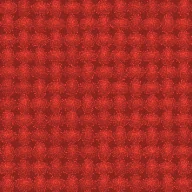
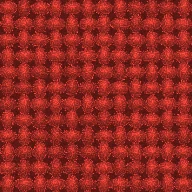
fix(web): visible madder weave; e2e builds outside the dev server folder

diff --git a/apps/web/next.config.ts b/apps/web/next.config.ts
@@ -1,6 +1,9 @@
 import type { NextConfig } from "next";
 
 const nextConfig: NextConfig = {
+  // e2e builds into its own folder so it never overwrites the files a running
+  // `next dev` is serving (that left the local server on stale CSS).
+  distDir: process.env.NEXT_DIST_DIR ?? ".next",
   transpilePackages: [
     "@amigo/core",
     "@amigo/adapter-memory",

diff --git a/apps/web/playwright.config.ts b/apps/web/playwright.config.ts
@@ -27,6 +27,7 @@ export default defineConfig({
     timeout: 300_000,
     env: {
       AMIGO_LOCAL_MODE: "true",
+      NEXT_DIST_DIR: ".next-e2e",
       NEXT_PUBLIC_SUPABASE_URL: "",
       NEXT_PUBLIC_SUPABASE_PUBLISHABLE_KEY: "",
       DATABASE_URL: "",

diff --git a/odd/tasks/critique-fixes.md b/odd/tasks/critique-fixes.md
@@ -24,3 +24,4 @@ Tests: `pnpm check`, `pnpm --filter @amigo/web e2e`.
 - L3 (2026-11-24): T2 done. One canonical time: the free window (decision panel, option rows, cloth band, invite preview); the suggested start lives only in the propose form, and the "Libres de … a …" line is gone. Strip: when everyone can, the caption shows the window length ("4 h", "2,5 h"; label "pueden todos, 4 h libres") instead of N/N. Tags every option shares are dropped ("Más pronto" stays: it breaks ties). RED observed: 3 of 4 new unit tests fail on the old view model. `pnpm check` green, e2e 19/19, capture of a two-member group reviewed.
 - L4 (2026-11-24): owner feedback verbatim: "Ok, la tipografia no funciona bien, estan como todas las letras una sobre otras, además son negras? por otro lado los botones creo que tamien deberian de tener textura, se ven fuera de lugar, deberian ser como el boton listo de gestionar horarios, pero claro con el color que tienen al crear un grupo y estar sin el contenido que deberia de tener normalmente el contenido se ve mal, no sabria explicartelo revisalo, un grupo recien creado me meti a un demo para revisar, siento que el bloque de los hilos y quien esta libre deberia ser mas grande verticalmente, apretado todo es un poco dificil de leer"
 - L5 (2026-11-24): fixes. Rope font rebuilt as TrueType: the CFF build stored a zero width inside every charstring (T2CharStringPen(0)), which FreeType ignores but other rasterisers use, so glyphs stacked. Titles dyed walnut with the thread shadow. Madder buttons are now madder cloth (`public/yarn/cloth-madder.webp` from the ink weave, white text 4.98:1 worst) with hover/press washes and a flat disabled state. Solo group uses the two-column board layout with an illustrative cloth (you + two loose friend threads). Day cloth rows 24→40px (16→28 dense), free yarn 14→20px, bigger dive ticks. `pnpm check` green, e2e 19/19, desktop captures of home, new group and demo reviewed.
+- L6 (2026-11-24): owner: "los botones aun se ven rojos normales". Two causes: the madder weave was half the ink tile's contrast (14% vs 29% luminance variation), and the running `next dev` was serving stale CSS because the e2e `pnpm build` writes into the same `.next`. Madder tile regenerated at the ink weave strength on a deeper base (avg #96282 2, white 4.66:1 worst); e2e now builds into `.next-e2e` (`NEXT_DIST_DIR`). Checks green, e2e 19/19 with dev server still serving.
